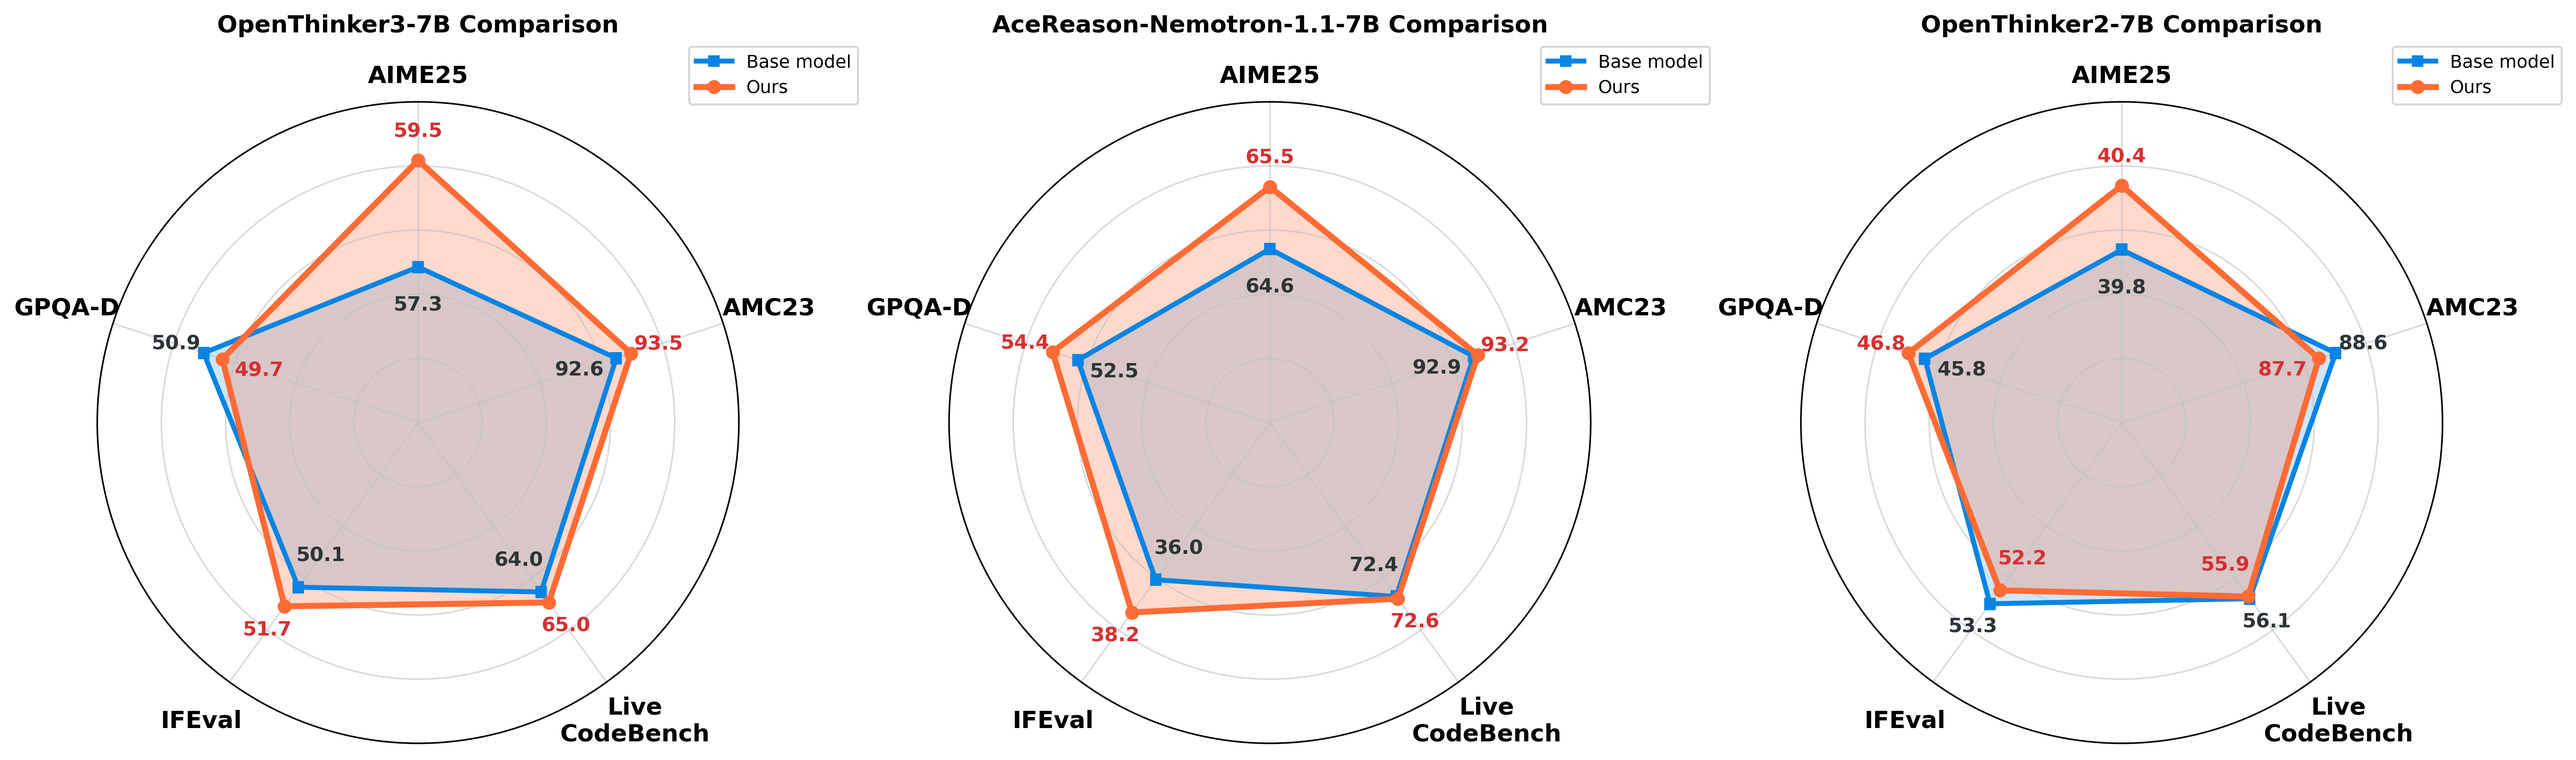
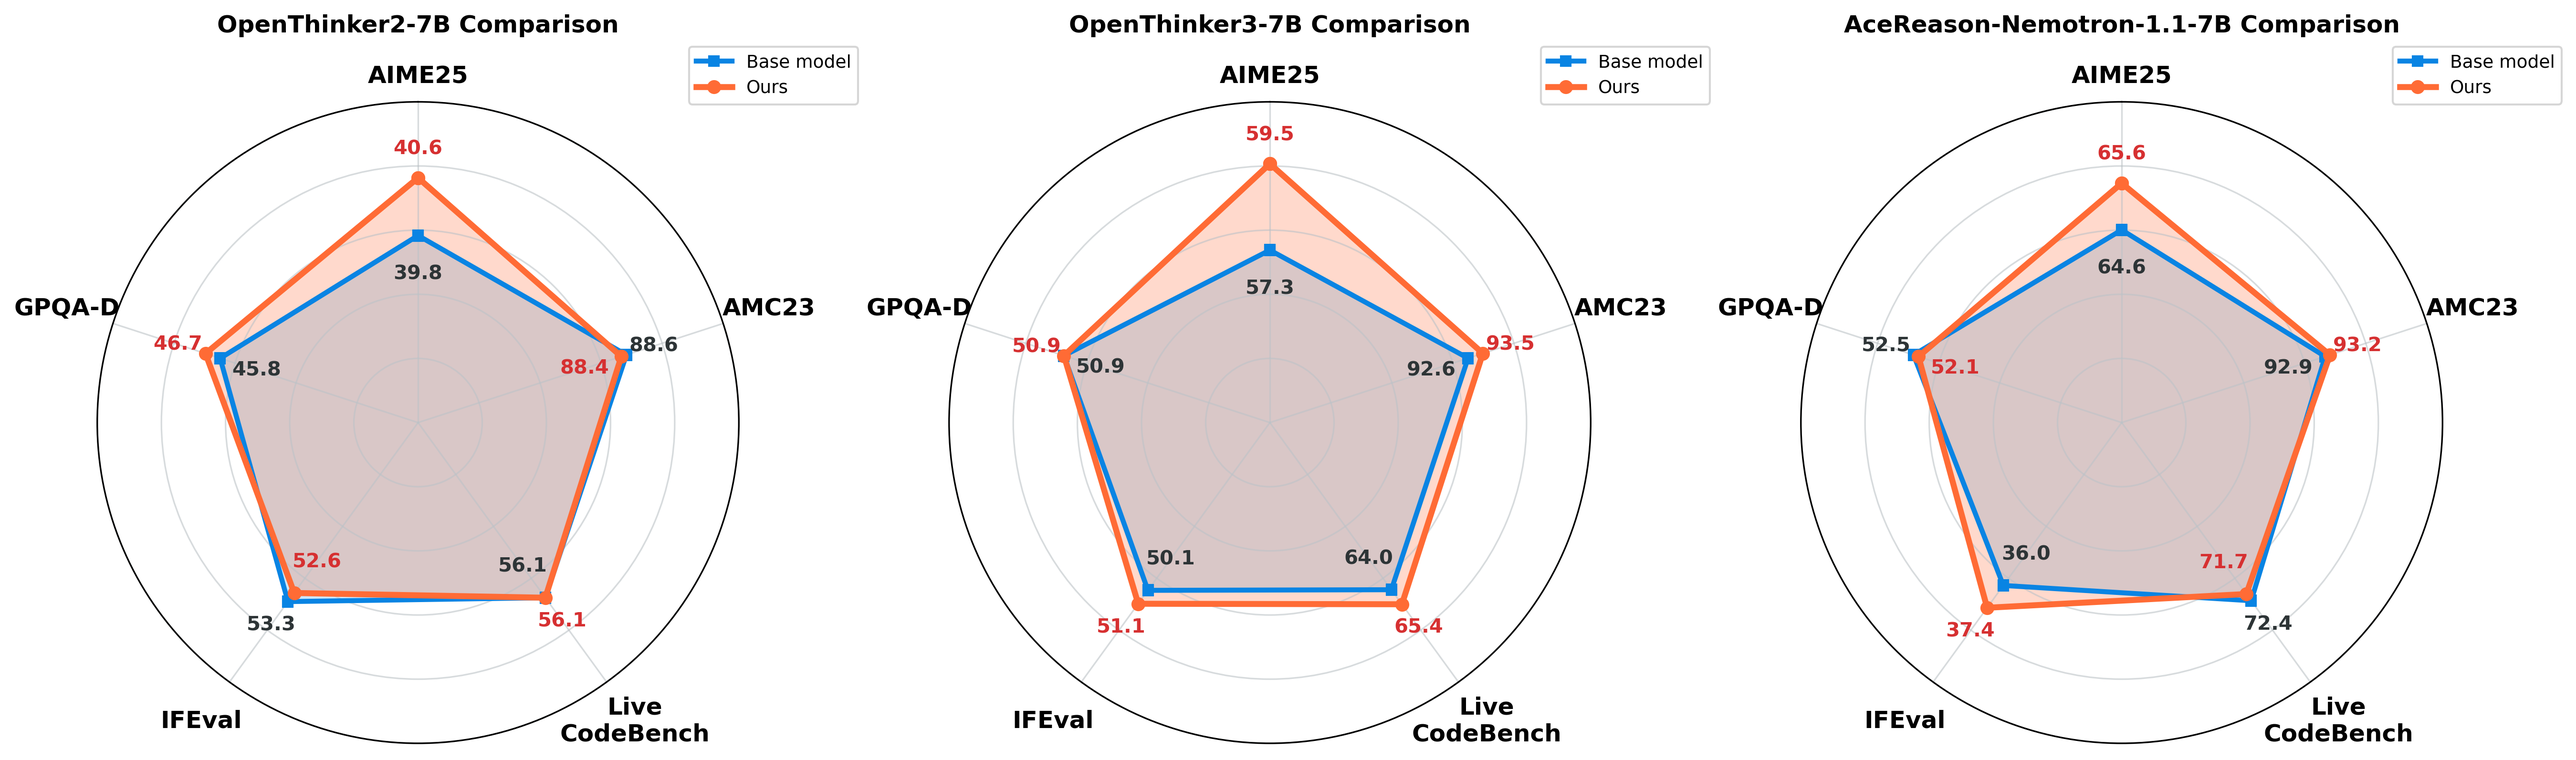
Update score and radar figure

diff --git a/_posts/2025-07-28-llm_post_training_kr.md b/_posts/2025-07-28-llm_post_training_kr.md
@@ -267,11 +267,11 @@ $$
 | Model                          | Method                         | AIME25 | AMC23 | LiveCodeBench | GPQA-Diamond | IFEval |
 |--------------------------------|--------------------------------|--------|-------|---------------|--------------|--------|
 | Openthinker3-7B                | Base                           | 57.292 | 92.617 | 63.968      | 50.947       | 50.09  |
-|                                | Offline GRPO (+bias)        | 59.532 | 93.516 | 64.995      | 49.684       | 51.66  |
+|                                | Offline GRPO (+bias)           | 59.532 | 93.516 | 65.435      | 50.947       | 51.14  |
 | Openthinker2-7B                | Base                           | 39.792 | 88.633 | 56.115        | 45.833          | 53.30 |
-|                                | Offline GRPO (+bias)        | 40.365 | 87.656 | 55.944       | 46.843         | 52.20 |
+|                                | Offline GRPO (+bias)           | 40.573 | 88.359 | 56.115       | 46.717         | 52.62 |
 | AceReason-Nemetron-1.1-7B      | Base                           | 64.635  | 92.930 | 72.383     | 52.462         | 36.02   |
-|                                | Offline GRPO (+bias)        | 65.521  | 93.164 | 72.603   | 54.356        | 38.23   |
+|                                | Offline GRPO (+bias)           | 65.573  | 93.203 | 71.673   | 52.146        | 37.38   |
 
 실험 결과를 통해 Math 데이터로 post-training한 만큼 수학 관련 벤치마크(AIME25, AMC23)에서는 모든 모델에서 일관된 성능 향상이 관찰되었습니다. 
 흥미롭게도, 다른 도메인에서의 성능 또한 기존 대비 저하되지 않고 유지되었으며, 특히 코드 생성 벤치마크인 LiveCodeBench에서는 오히려 소폭의 성능 향상이 관찰되었습니다. 

diff --git a/_posts/2025-07-28-llm_post_training_en.md b/_posts/2025-07-28-llm_post_training_en.md
@@ -266,11 +266,11 @@ The experimental results are presented in the table below:
 | Model                          | Method                         | AIME25 | AMC23 | LiveCodeBench | GPQA-Diamond | IFEval |
 |--------------------------------|--------------------------------|--------|-------|---------------|--------------|--------|
 | Openthinker3-7B                | Base                           | 57.292 | 92.617 | 63.968      | 50.947       | 50.09  |
-|                                | Offline GRPO (+bias)        | 59.532 | 93.516 | 64.995      | 49.684       | 51.66  |
+|                                | Offline GRPO (+bias)           | 59.532 | 93.516 | 65.435      | 50.947       | 51.14  |
 | Openthinker2-7B                | Base                           | 39.792 | 88.633 | 56.115        | 45.833          | 53.30 |
-|                                | Offline GRPO (+bias)        | 40.365 | 87.656 | 55.944       | 46.843         | 52.20 |
+|                                | Offline GRPO (+bias)           | 40.573 | 88.359 | 56.115       | 46.717         | 52.62 |
 | AceReason-Nemetron-1.1-7B      | Base                           | 64.635  | 92.930 | 72.383     | 52.462         | 36.02   |
-|                                | Offline GRPO (+bias)        | 65.521  | 93.164 | 72.603   | 54.356        | 38.23   |
+|                                | Offline GRPO (+bias)           | 65.573  | 93.203 | 71.673   | 52.146        | 37.38   |
 
 As the models were post-trained on math data, all models showed consistent performance improvements on the math-related benchmarks (AIME25, AMC23).
 Interestingly, performance in other domains was maintained without degradation compared to the original models, and even showed a slight improvement on the code generation benchmark, LiveCodeBench.
